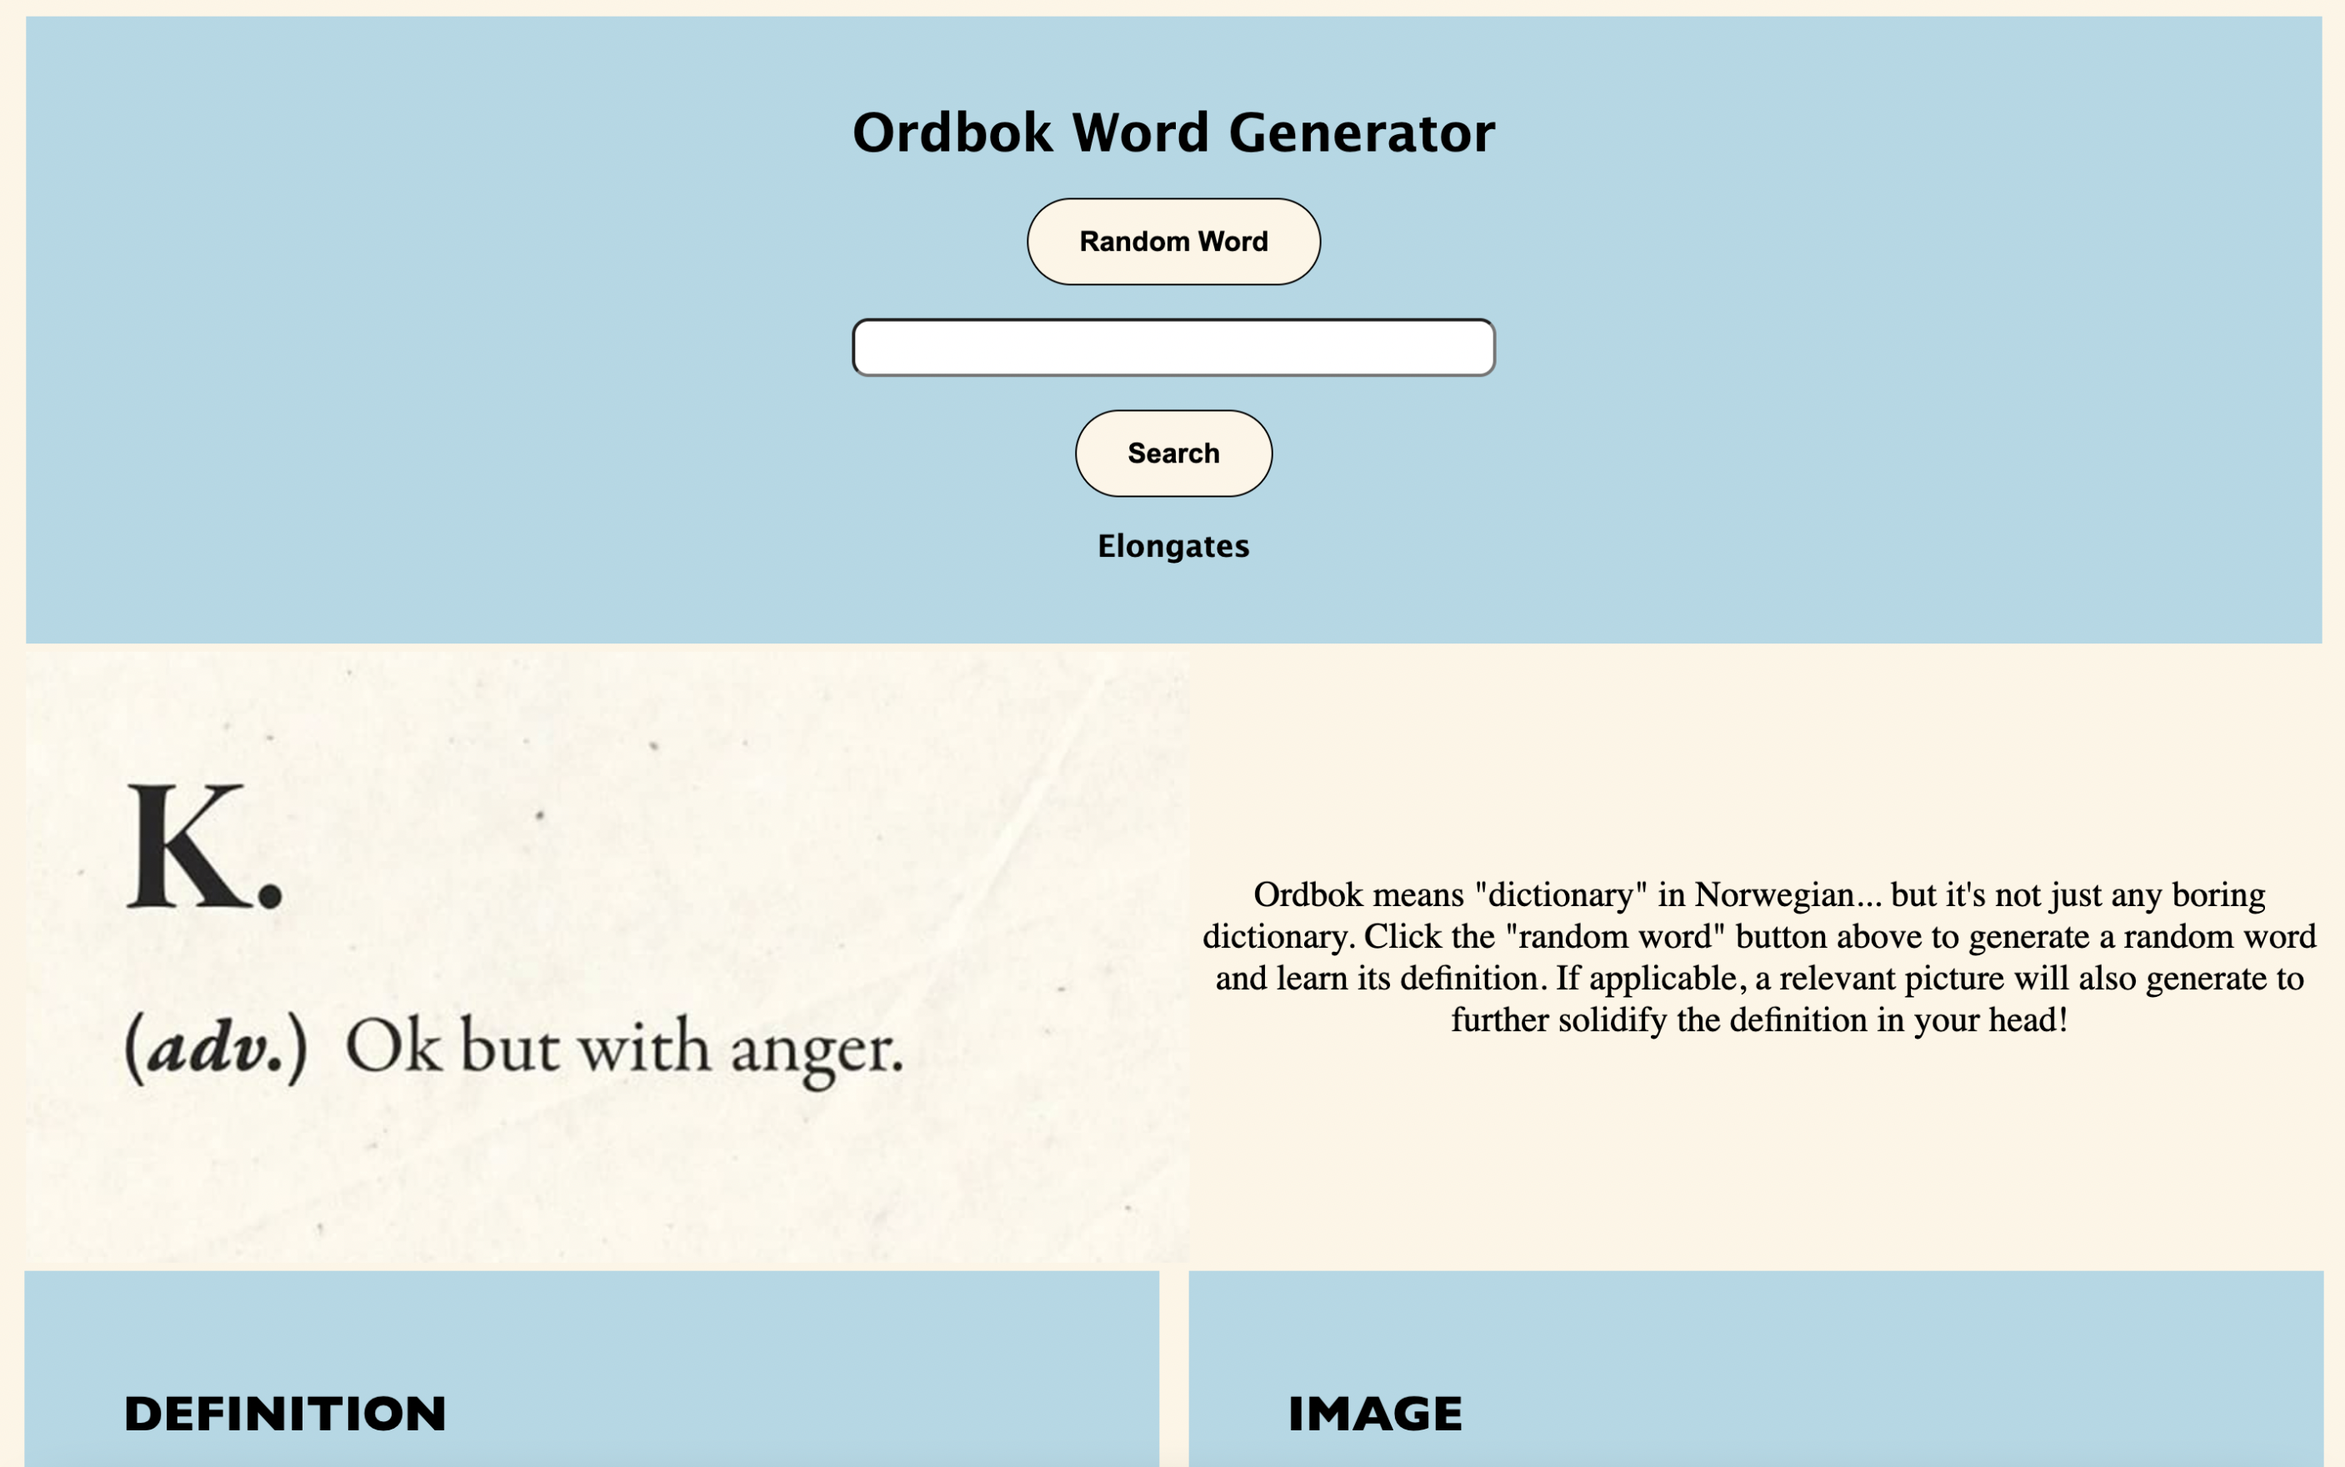
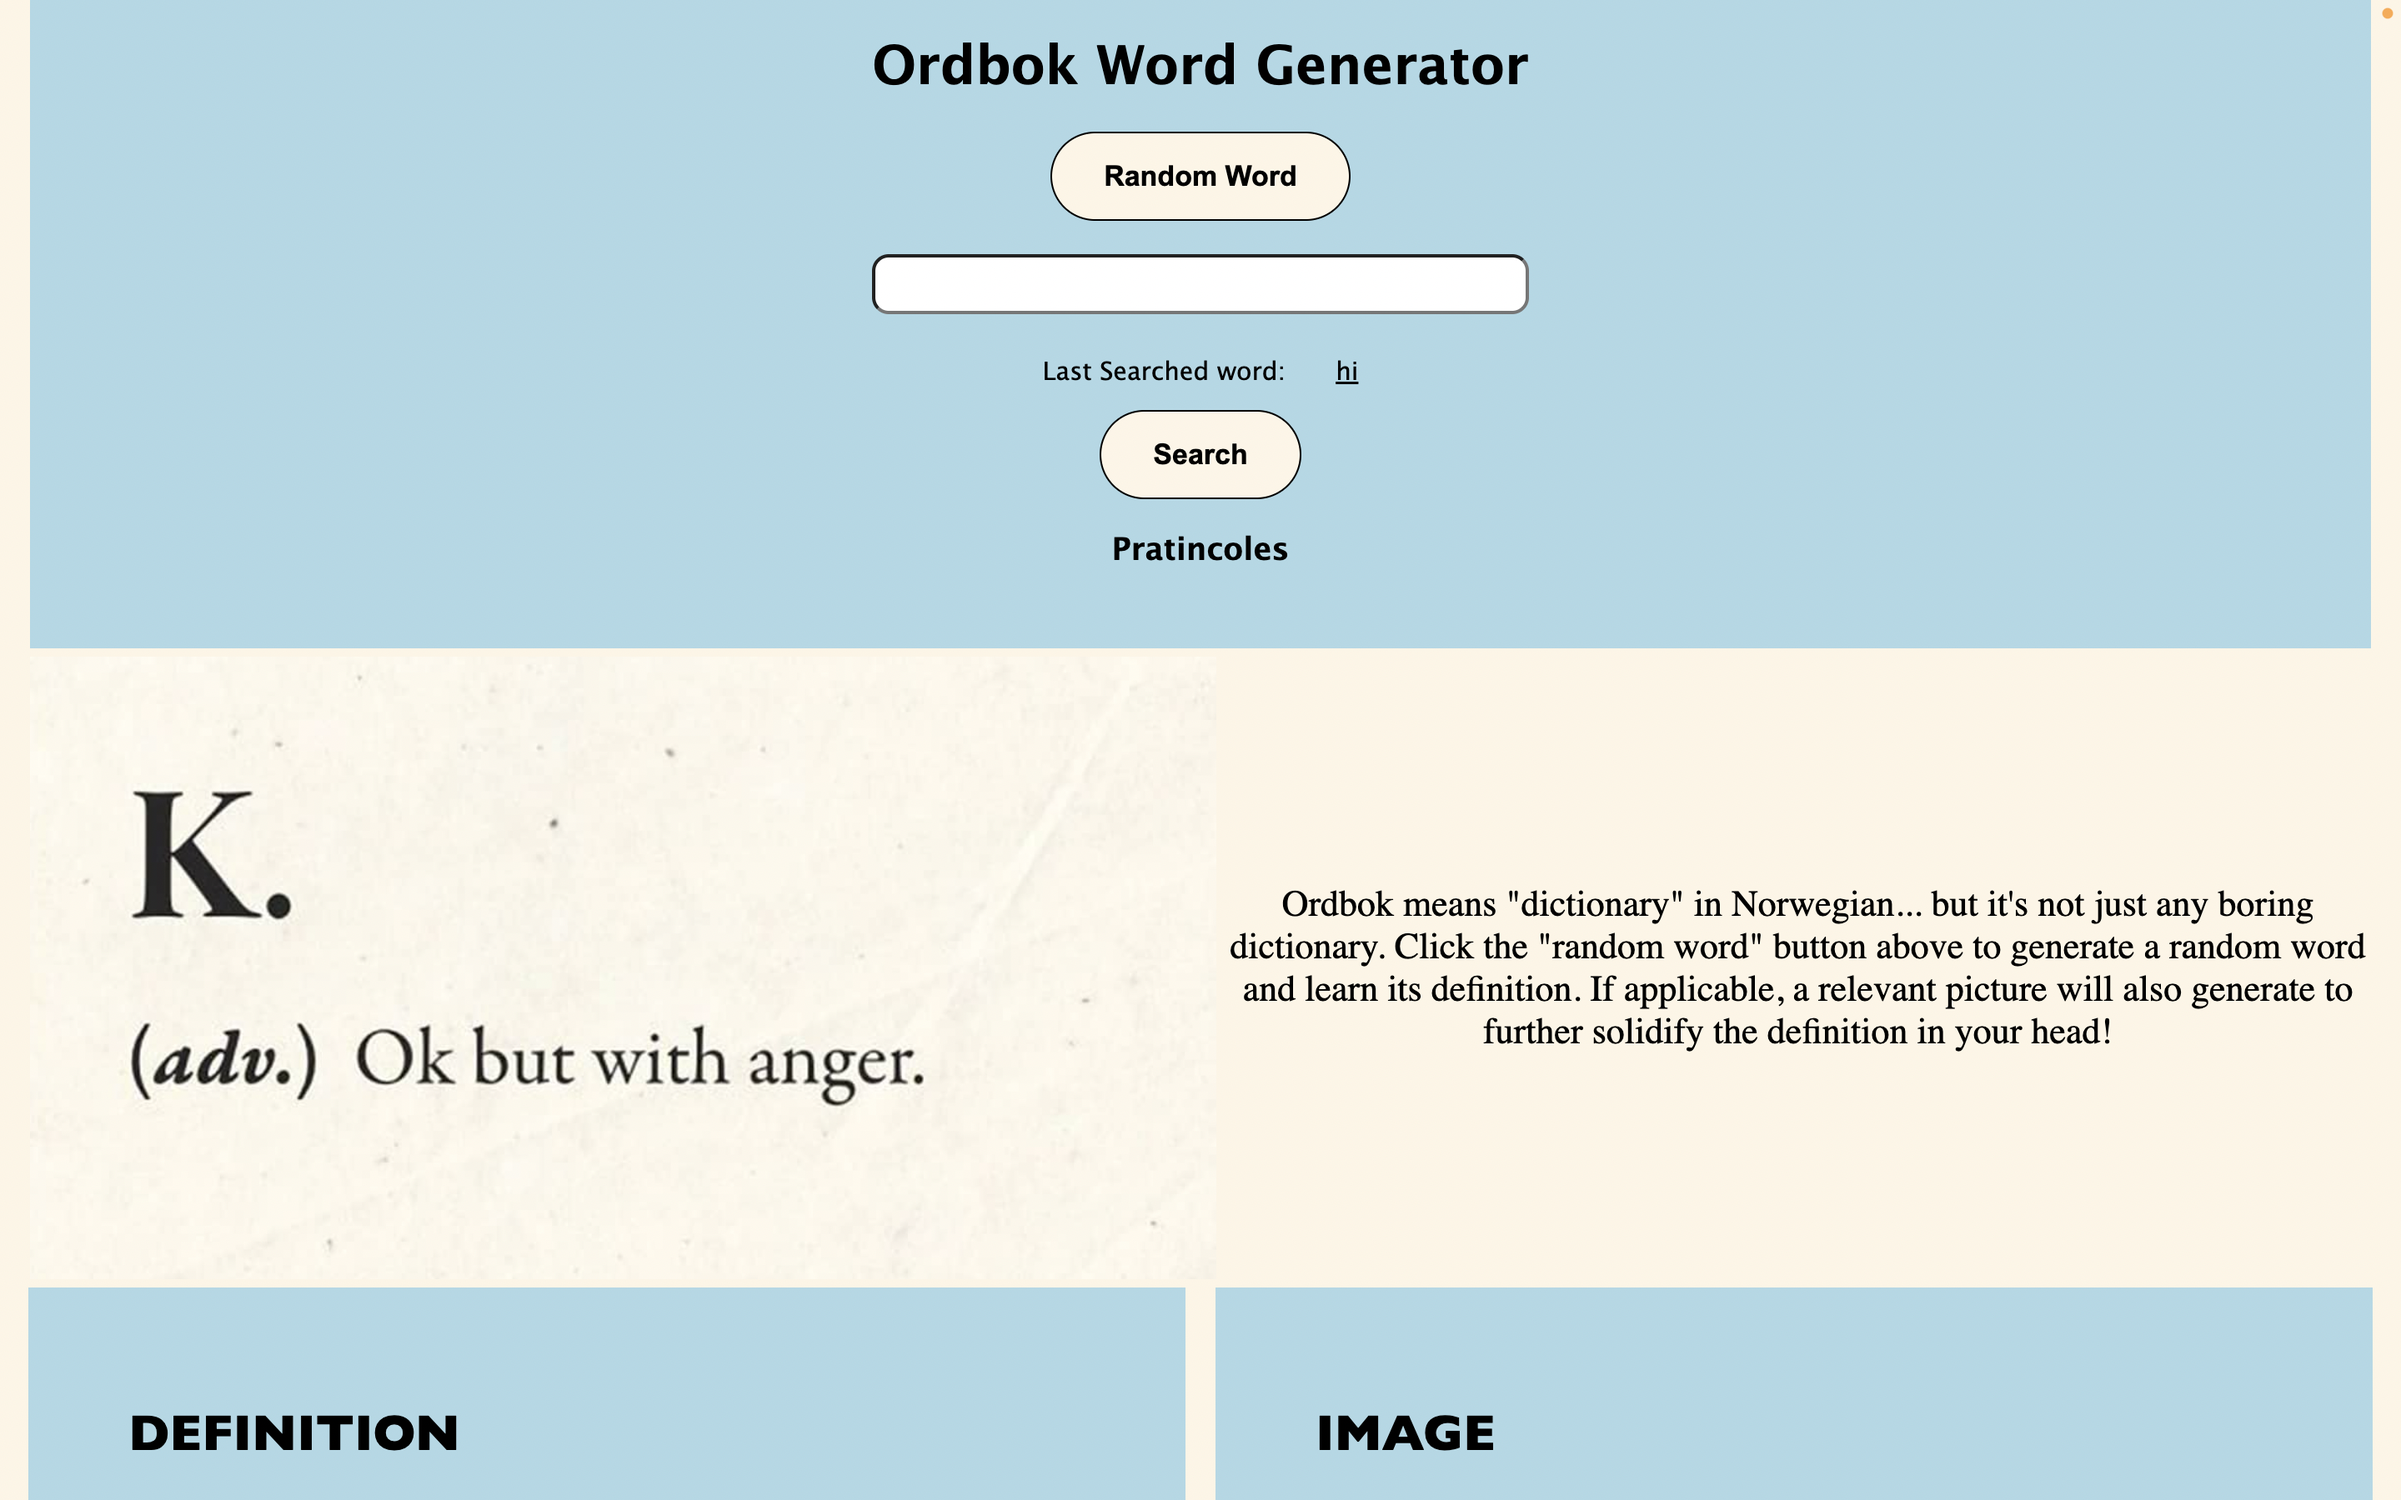
added new screenshot, cleaned up CSS, and put final touches on README.md

diff --git a/assets/css/style.css b/assets/css/style.css
@@ -61,14 +61,6 @@ a {
     margin-left: 30px;
 }
 
-.header-grid {
-    border: 0px;
-    display: grid;
-    max-width: 600px;
-    margin-top: 20px;
-    
-}
-
 /* Search Bar located in header */
 .search-button{background-color: oldlace;
 	border-radius:28px;
@@ -98,30 +90,12 @@ a {
     
 }
 
-.search-button{background-color: oldlace;
-	border-radius:28px;
-	border:1px solid black;
-	display:inline-block;
-	cursor:pointer;
-	color: black;
-	font-family:Arial;
-	font-size:17px;
-	font-weight:bold;
-	padding:16px 31px;
-	text-decoration:none;
-    margin: auto;
-}
-
-.text-bar{    
-    border-radius: 10px;
-    height: 30px;
-    margin-bottom: 20px;
-}
-
+/* Previous search displayed below search bar */
 .prvsSearch{
     margin-top: 5px;
     font-size: 15px;
 }
+
 /* K. Okay but with anger. Image fills 50.5% of screen. */
 #K {
     width: 50.5%

diff --git a/README.md b/README.md
@@ -27,9 +27,9 @@
     THEN I am given information for the word that I have searched
     WHEN I am presented with the information of the word
     THEN I am given the same definition and image columns as the random word function
-    WHEN I click on the search bar again
-    THEN I am presented with all of my past searches
-    WHEN I click on one of the previously searched word
+    WHEN I look below the search bar
+    THEN I am presented with my previous search
+    WHEN I click on my previously searched word
     THEN I can have the website re-search that term
 
 
